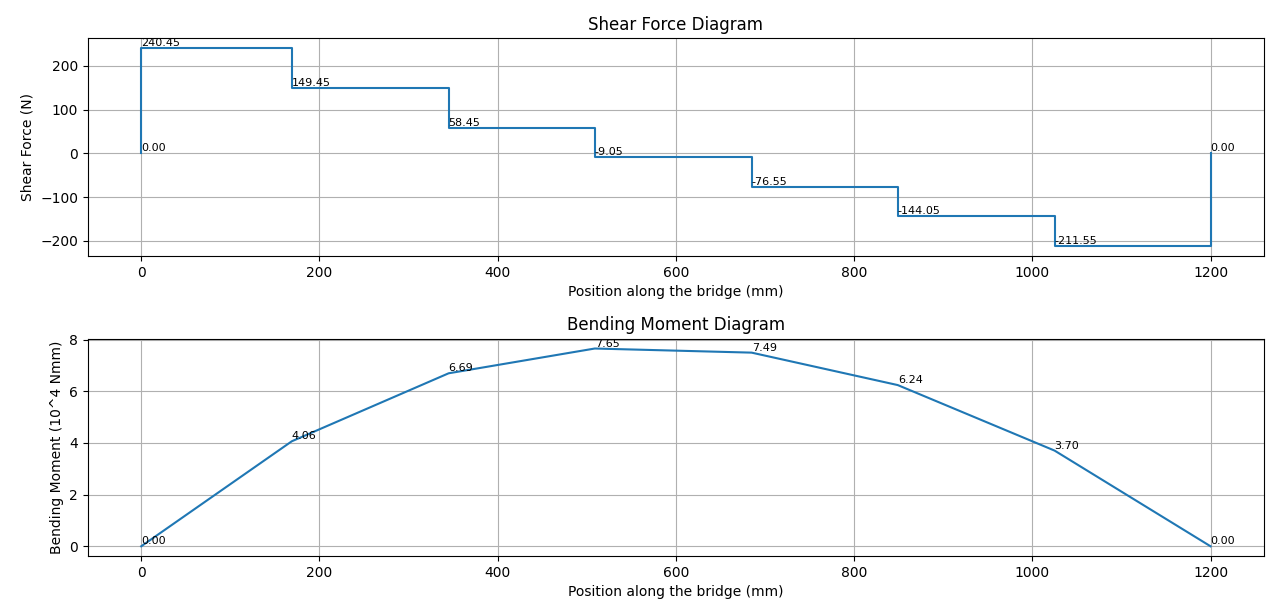
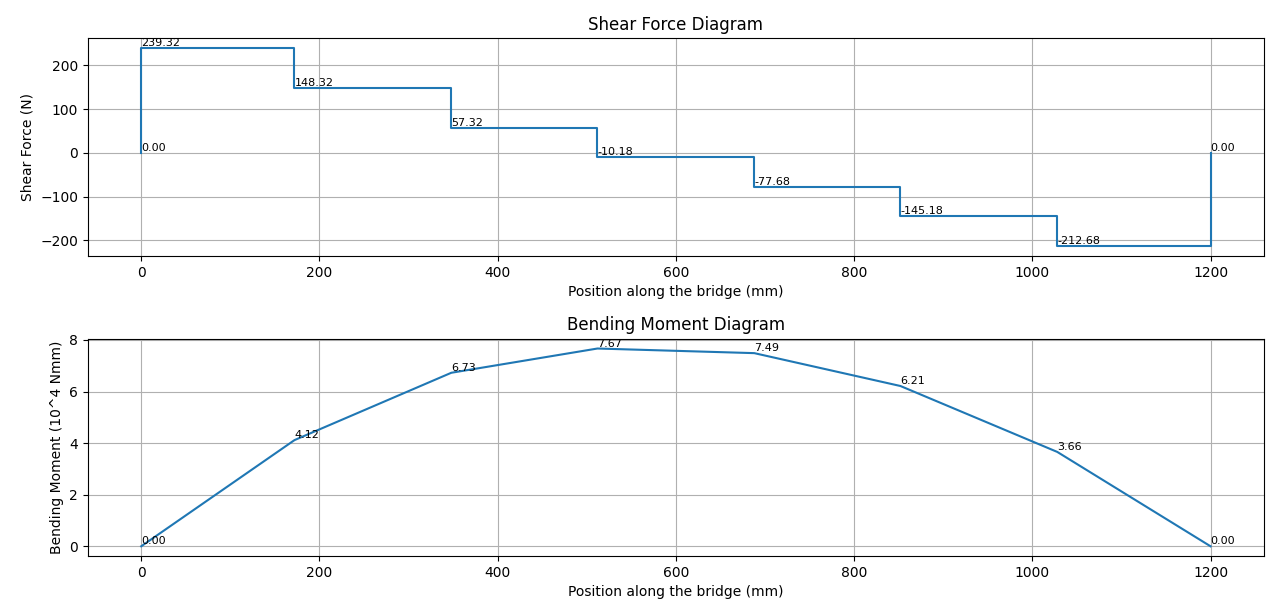
envelope

diff --git a/envelope.py b/envelope.py
@@ -1,0 +1,78 @@
+import numpy as np
+import matplotlib.pyplot as plt
+
+compressive_strength = 30
+tensile_strength = 6
+shear_strength_matboard = 4
+young = 4000
+poisson = 0.2
+shear_strength_cemant = 2
+x_train = [52, 228, 392, 568, 732, 908]
+x_start = 0
+x_end = 1200
+p_train = [182 / 2, 182 / 2, 135 / 2, 135 / 2, 135 / 2, 135 / 2]
+
+# Function to calculate shear force and bending moment at a given train position
+def calculate_shear_force_and_bending_moment(train_position):
+    real_x_train = [i + train_position for i in x_train]
+    start_moment = sum(real_x_train[i] * p_train[i] for i in range(6))
+    end_p = start_moment / 1200
+    start_p = sum(p_train) - end_p
+    shear_all=[0]*1201
+    # Shear force calculation
+    shear_force = [start_p]
+    shear_positions = [0]
+    for i in range(6):
+        shear_force.append(shear_force[-1] - p_train[i])
+        shear_positions.append(real_x_train[i])
+    shear_force.append(0)
+    shear_positions.append(1200)
+    for pos in range(1201):
+        if pos < real_x_train[0]:
+            shear_all[pos] = start_p
+        elif pos >= real_x_train[-1]:
+            shear_all[pos] = -end_p
+        else:
+            for j in range(5):
+                if real_x_train[j] <= pos < real_x_train[j + 1]:
+                    shear_all[pos] = shear_force[j + 1]
+                    break
+    # Bending moment calculation
+    bending_moment = [0]*1201
+    for i in range(1,1200):
+        bending_moment[i]=bending_moment[i-1]+shear_all[i]
+
+    return shear_all, bending_moment
+
+# Initialize envelope functions
+max_shear_force = [0 for x in range(x_end + 1)]
+max_bending_moment = [0 for x in range(x_end + 1)]
+
+# Calculate envelope functions
+for train_position in range(-52,292):
+    shear_force, bending_moment = calculate_shear_force_and_bending_moment(train_position)
+    for i in range(1201):
+        max_bending_moment[i] = max(max_bending_moment[i], bending_moment[i])
+    for i in range(1201):
+        if abs(shear_force[i])>abs(max_shear_force[i]):
+            max_shear_force[i] = shear_force[i]
+# Plotting envelope functions
+plt.figure(figsize=(12, 6))
+# Plotting maximum shear force envelope
+x_pos=[i for i in range(x_end + 1)]
+plt.subplot(2, 1, 1)
+plt.plot([0]+x_pos+[1200], [0]+max_shear_force+[0])
+plt.title('Maximum Shear Force Envelope')
+plt.xlabel('Position along the bridge (mm)')
+plt.ylabel('Shear Force (N)')
+plt.grid(True)
+# Plotting maximum bending moment envelope
+plt.subplot(2, 1, 2)
+plt.plot(range(x_end + 1), max_bending_moment)
+plt.title('Maximum Bending Moment Envelope')
+plt.xlabel('Position along the bridge (mm)')
+plt.ylabel('Bending Moment (Nmm)')
+plt.grid(True)
+
+plt.tight_layout()
+plt.show()

diff --git a/deliverable 1.py b/deliverable 1.py
@@ -8,14 +8,15 @@ young=4000
 poisson=0.2
 shear_strength_cemant=2
 x_train = [52, 228, 392, 568, 732, 908]
+x_start_train=120
 x_start = 0
 x_end = 1200
 p_train = [182 / 2, 182 / 2, 135 / 2, 135 / 2, 135 / 2, 135 / 2]
-real_x_train = [i + 120 for i in x_train]
+real_x_train = [i + x_start_train for i in x_train]
 
 start_moment = sum(real_x_train[i] * p_train[i] for i in range(6))
 end_p = start_moment / 1200
-start_p = 452 - end_p
+start_p = sum(p_train) - end_p
 
 # Shear force calculation
 shear_force = [0, start_p]
@@ -102,7 +103,7 @@ def second_moment_of_area(rectangles):
         cy = y + height / 2
         dy = cy - centroid_y
         I_rect = (width * height**3) / 12
-        I_total += I_rect + area * dy**2
+        I_total += I_rect + area * dy**2 #parallel axis theorem
 
     return I_total
 rectangles = [(10, 0, 80, 1.27), (10, 1.27, 1.27, 75-1.27), 
@@ -112,5 +113,5 @@ centroid = centroid_of_rectangles(rectangles)
 print(f"Centroid of the rectangles is at: {centroid}mm")
 I = second_moment_of_area(rectangles)
 print(f"Second moment of area of the rectangles is: {I/(10**6)} 10e6 mm^4")
-print(f"{max(bending_moment)*(75+1.27-centroid)/I}MPa",f"{max(bending_moment)*(centroid)/I}MPa")
+print(f"Flexural Stress at the top: {max(bending_moment)*(75+1.27-centroid)/I}MPa",f"Flexural Stress at the bottom: {max(bending_moment)*(centroid)/I}MPa")
 #N mm*mm/mm^4
